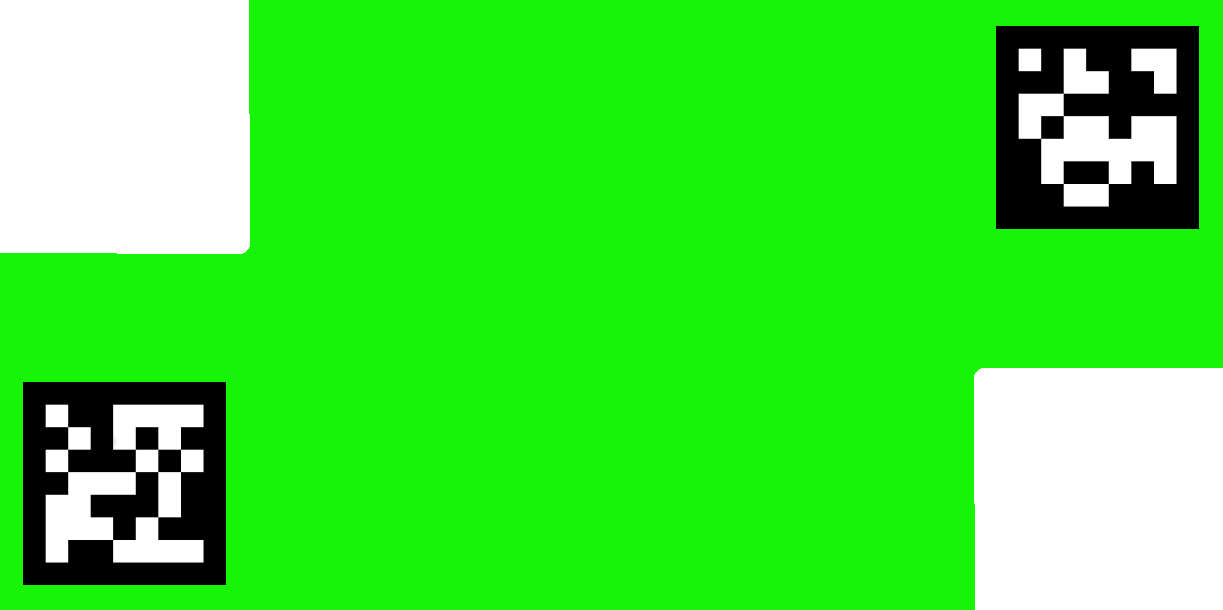
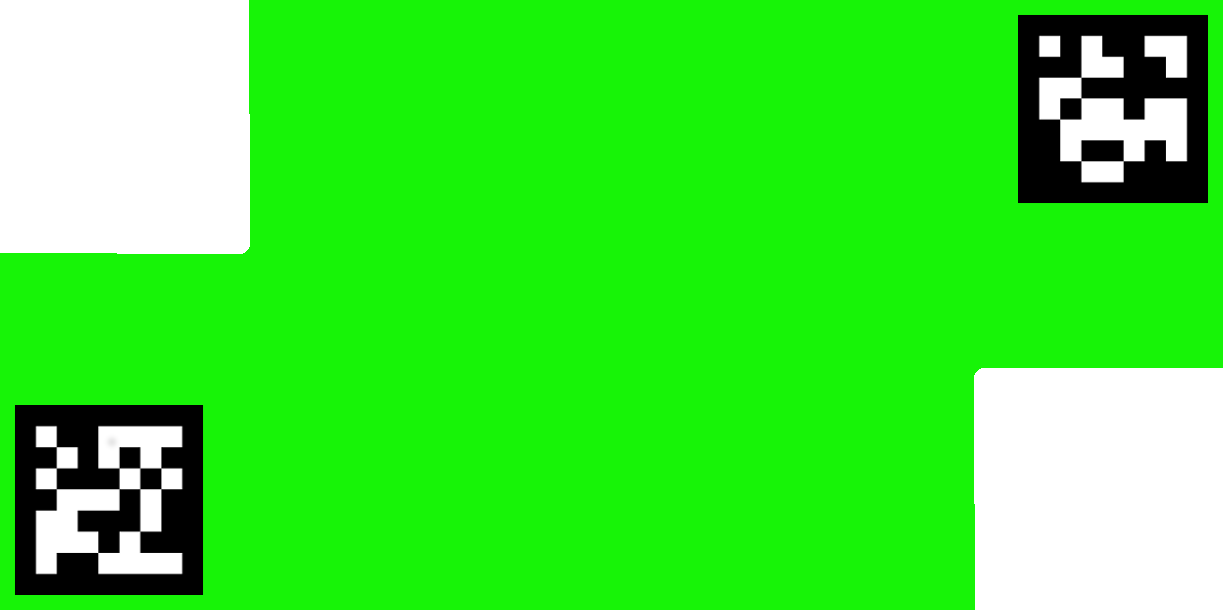
Yuh calibrated

Changed region(s): [[0.0, 0.623, 0.1864, 0.9967], [0.8078, 0.0, 0.9943, 0.3738]]

diff --git a/CalibrationCamera/Source.cpp b/CalibrationCamera/Source.cpp
@@ -42,20 +42,20 @@ int main()
 
 		if (ids.size() > 0)
 		{
-			// See if markers 0, 1, and 16 are being seen
+			// See if markers 0, 1, and 3 are being seen
 			auto itr0 = std::find(ids.begin(), ids.end(), 0);
 			auto itr1 = std::find(ids.begin(), ids.end(), 1);
-			auto itr16 = std::find(ids.begin(), ids.end(), 16);
+			auto itr3 = std::find(ids.begin(), ids.end(), 3);
 
-			if (itr0 != ids.end() && itr1 != ids.end() && itr16 != ids.end())
+			if (itr0 != ids.end() && itr1 != ids.end() && itr3 != ids.end())
 			{
 				int indexOfMarker0 = itr0 - ids.begin();
 				int indexOfMarker1 = itr1 - ids.begin();
-				int indexOfMarker16 = itr16 - ids.begin();
+				int indexOfMarker3 = itr3 - ids.begin();
 
 				std::vector<cv::Point2f> marker0 = corners[indexOfMarker0];
 				std::vector<cv::Point2f> marker1 = corners[indexOfMarker1];
-				std::vector<cv::Point2f> marker16 = corners[indexOfMarker16];
+				std::vector<cv::Point2f> marker3 = corners[indexOfMarker3];
 
 				cv::Point2f topMidpoint = findMidpoint(marker0[1], marker1[1]);
 				cv::Point2f midLineMidpoint = findMidpoint(marker0[0], marker1[2]);
@@ -73,9 +73,9 @@ int main()
 				double physicalDistance = calculateDist(topMidpoint.x, topMidpoint.y, botMidpoint.x, botMidpoint.y);
 
 				// Distance between the top right and bottom left corners of marker 16
-				double virtualDistance = calculateDist(marker16[1].x, marker16[1].y, marker16[3].x, marker16[3].y);
+				double virtualDistance = calculateDist(marker3[1].x, marker3[1].y, marker3[3].x, marker3[3].y);
 
-				std::cout << marker16 << std::endl;
+				std::cout << marker3 << std::endl;
 
 				double diff = physicalDistance - virtualDistance;
 				std::cout << "Phys Dist: " << physicalDistance << "\nVirt Dist: " << virtualDistance << "\nDiff: " << diff << std::endl;
